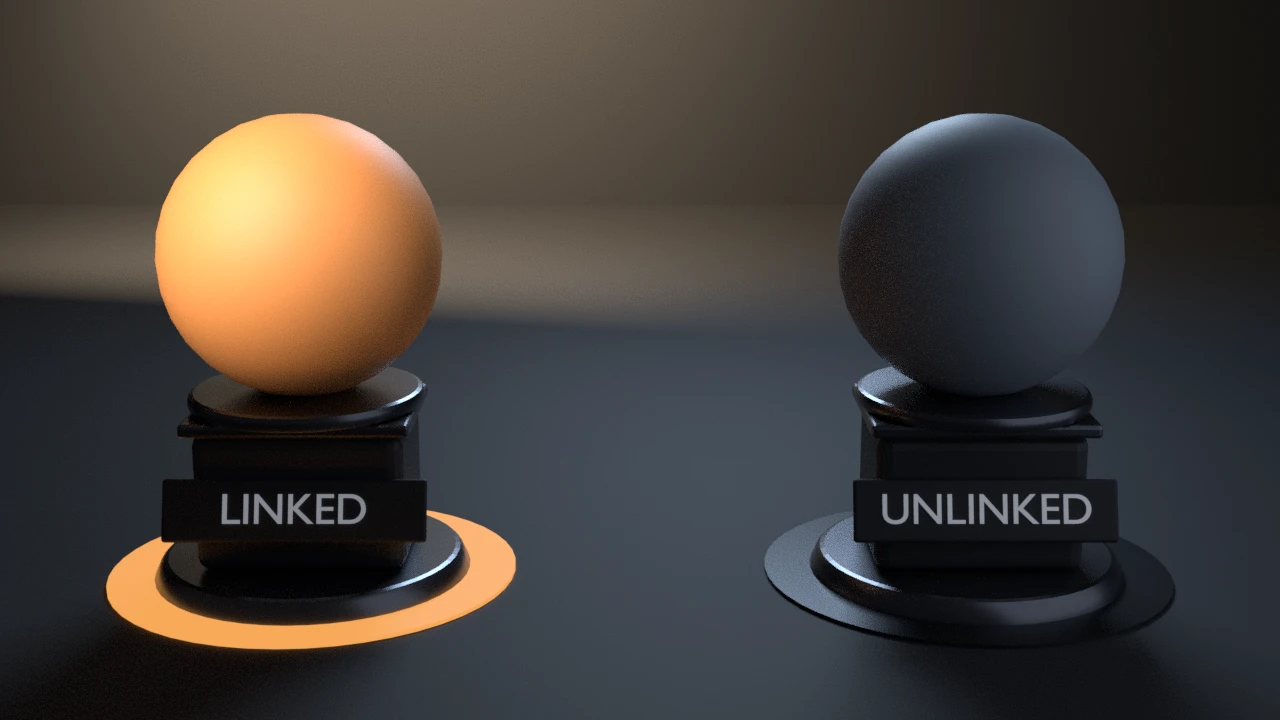
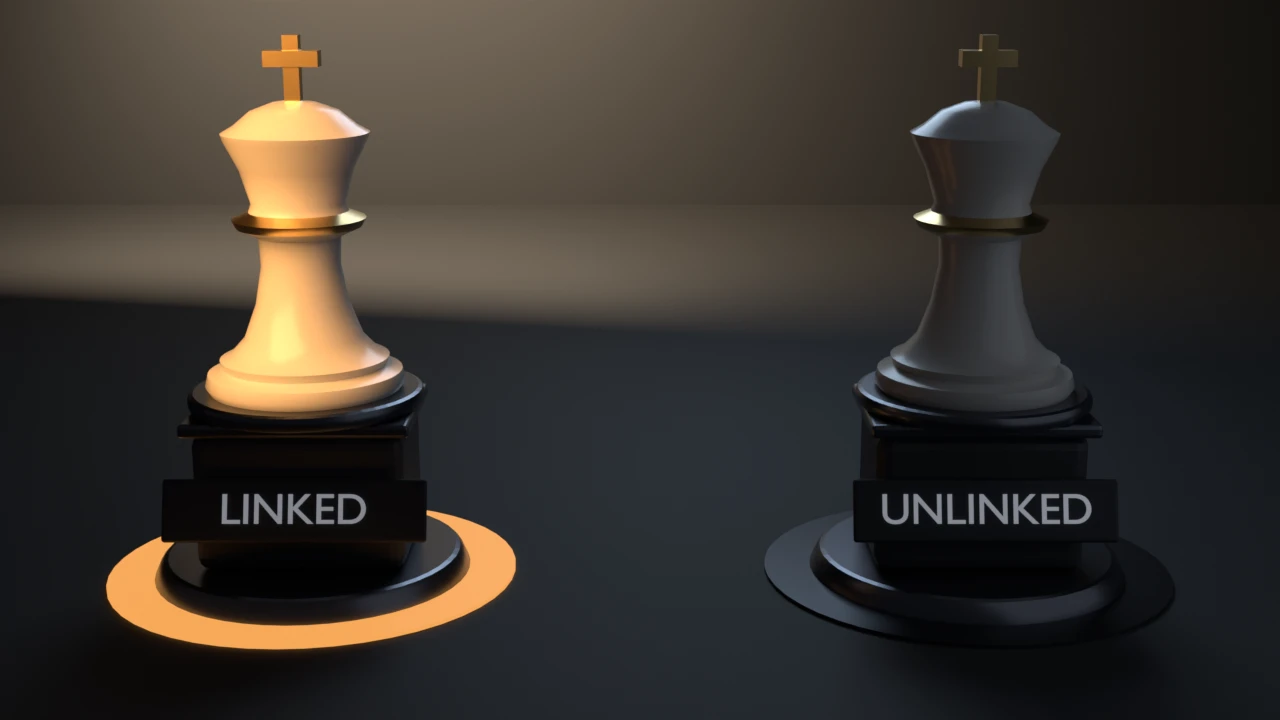
fix(examples): redesign light-link-studio as two porcelain chess kings under one linked key
After the check passes on its matte spheres, the still hides them and
stands two identical lathed porcelain chess kings (gilt collar and cross,
one shared material) in the hero and decoy collections. The only
difference between the kings is the linked key, recoloured amber for the
still: the LINKED king glows warm, the UNLINKED king stays cool grey. The
shared fill and rim are pulled down for the still only, since glossy
porcelain picks up far more of them than the matte check spheres. The
still now renders denoised (64 samples) and runs the gallery_framing gate
(exit 10), which it previously skipped. Check logic is unchanged.

Evidence (live runs, local):
- E:/Blender-Developer-Tools/.scratch/blender-5.2.1-windows-x64/blender.exe
  (Blender 5.2.1 LTS): check exit 0, linked hero=0.862 decoy=0.232
  ratio=3.7x; unlinked rise=238%, hero_drift=0.1%. --output exit 0.
  --skip-link exits 5 ("receiver_collection assignment did not read back").
- E:/Blender-Developer-Tools/.scratch/blender-4.5.11-windows-x64/blender.exe
  (Blender 4.5.11 LTS): check and --output exit 0, same numbers, framing_ok.
- Framing: fill x=0.756 y=0.822; margins l=0.122 r=0.122 b=0.128 t=0.050.
- Contact sheet: candidate luma 0.208 / stage 0.163 / warmth +0.275 /
  sat 0.242, against armature-bend 0.243/0.192/-0.144/0.237,
  damped-track-aim 0.237/0.218/+0.105/0.178, bmesh-gear 0.237/0.252/+0.092/0.153.

diff --git a/examples/light-link-studio/light_link_studio.py b/examples/light-link-studio/light_link_studio.py
@@ -33,6 +33,11 @@ CI smoke check. Pass --output to also render a still:
 import bpy, bmesh, sys, os, math, argparse, tempfile, shutil
 from mathutils import Matrix
 
+# Shared Layer 1 framing measurement (render path only) — see
+# gallery_framing.py for the __file__-relative import shim this relies on.
+sys.path.insert(0, os.path.join(os.path.dirname(os.path.abspath(__file__)), os.pardir))
+import gallery_framing  # noqa: E402
+
 HERO_RGB = (0.85, 0.30, 0.08)     # hazard orange
 DECOY_RGB = (0.30, 0.34, 0.40)    # cold steel
 KEY_ENERGY = 560.0
@@ -375,7 +380,85 @@ def placard(sc, text, x, plate_m, stand_m, text_m):
     sc.collection.objects.link(ob)
 
 
-def render_still(sc, path):
+# Render-only chess king, lathed from an (r, z) profile standing on z=0.
+# Faces between KING_BAND z-limits take the gilt material (index 1).
+KING_PROFILE = [
+    (0.0, 0.0), (0.34, 0.0), (0.355, 0.025), (0.345, 0.065), (0.29, 0.085),
+    (0.30, 0.115), (0.26, 0.135), (0.21, 0.19), (0.165, 0.31), (0.14, 0.45),
+    (0.145, 0.55), (0.22, 0.585), (0.235, 0.615), (0.175, 0.64),
+    (0.165, 0.67), (0.20, 0.79), (0.25, 0.89), (0.258, 0.915), (0.215, 0.94),
+    (0.155, 0.99), (0.075, 1.02), (0.0, 1.03),
+]
+KING_BAND = (0.57, 0.65)
+KING_SEGS = 48
+
+
+def chess_king(sc, name, x, z0, coll, body_m, gilt_m):
+    me = bpy.data.meshes.new(name)
+    bm = bmesh.new()
+    try:
+        rings = []
+        for r, z in KING_PROFILE:
+            if r == 0.0:
+                rings.append([bm.verts.new((0.0, 0.0, z))])
+            else:
+                rings.append([bm.verts.new((r * math.cos(2 * math.pi * s / KING_SEGS),
+                                            r * math.sin(2 * math.pi * s / KING_SEGS), z))
+                              for s in range(KING_SEGS)])
+        for a, b in zip(rings, rings[1:]):
+            zmid = 0.5 * (a[0].co.z + b[0].co.z)
+            idx = 1 if KING_BAND[0] <= zmid <= KING_BAND[1] else 0
+            for s in range(KING_SEGS):
+                t = (s + 1) % KING_SEGS
+                if len(a) == 1:
+                    f = bm.faces.new((a[0], b[t], b[s]))
+                elif len(b) == 1:
+                    f = bm.faces.new((a[s], a[t], b[0]))
+                else:
+                    f = bm.faces.new((a[s], a[t], b[t], b[s]))
+                f.smooth = True
+                f.material_index = idx
+        # gilt cross finial: an upright and a crossbar
+        for dims, cz in (((0.055, 0.055, 0.24), 1.13), ((0.19, 0.075, 0.055), 1.17)):
+            res = bmesh.ops.create_cube(bm, size=1.0)
+            for v in res["verts"]:
+                v.co = (v.co.x * dims[0], v.co.y * dims[1], v.co.z * dims[2] + cz)
+            for f in {f for v in res["verts"] for f in v.link_faces}:
+                f.material_index = 1
+        bmesh.ops.recalc_face_normals(bm, faces=bm.faces)
+        bm.to_mesh(me)
+    finally:
+        bm.free()
+    me.set_sharp_from_angle(angle=math.radians(45.0))
+    me.materials.append(body_m)
+    me.materials.append(gilt_m)
+    ob = bpy.data.objects.new(name, me)
+    ob.location = (x, 0.0, z0)
+    coll.objects.link(ob)
+    return ob
+
+
+def render_still(sc, path, key, hero, decoy):
+    """The gallery still stages the contract on designed subjects: the checked
+    spheres are hidden and two identical porcelain chess kings stand in their
+    collections. The kings share one material, so the only difference between
+    them is the linked key — recoloured amber for the still (the check ran
+    first, on the untouched scene)."""
+    porcelain = _principled("Porcelain", (0.66, 0.64, 0.60), 0.22)
+    gilt = _principled("Gilt", (0.78, 0.56, 0.24), 0.28, metallic=1.0)
+    kings = []
+    for src in (hero, decoy):
+        src.hide_render = True
+        coll = src.users_collection[0]
+        kings.append(chess_king(sc, "King" + src.name, src.location.x, 0.70,
+                                coll, porcelain, gilt))
+    key.data.color = (1.0, 0.48, 0.16)
+    key.data.energy = KEY_ENERGY * 1.2
+    # the unlinked king must sit near the fill floor as the check measured it
+    # on the matte decoy sphere; porcelain reflects far more of the shared
+    # fill and rim, so both are pulled down for the still only
+    sc.objects["Fill"].data.energy = FILL_ENERGY * 0.45
+    sc.objects["Rim"].data.energy = 70.0
     plate_m = _principled("PlateBlack", (0.03, 0.032, 0.038), 0.6)
     stand_m = _principled("StandMetal", (0.16, 0.17, 0.20), 0.3, metallic=0.9)
     # faint self-glow: the UNLINKED placard must read even in the decoy's dark
@@ -386,16 +469,26 @@ def render_still(sc, path):
     # the gallery still is the linked state, on Cycles for the same
     # deterministic sampling as the check
     sc.render.engine = 'CYCLES'
-    sc.cycles.samples = 48
-    sc.cycles.use_denoising = False
+    sc.cycles.samples = 64
+    sc.cycles.use_denoising = True
     sc.render.resolution_x = 1280
     sc.render.resolution_y = 720
     sc.render.resolution_percentage = 100
     sc.render.image_settings.file_format = 'PNG'
     sc.render.filepath = path
     sc.view_settings.view_transform = 'Standard'
+    bpy.context.view_layer.update()
+    # Layer 1 framing gate before the beauty render (exit 10 on violation)
+    stage = [o for o in sc.objects if o.name.startswith(("Floor", "Wall", "Inlay"))]
+    placards = [o for o in sc.objects if o.name.startswith(("Plate", "PlacardText"))]
+    peds = [o for o in sc.objects if o.name.startswith("Ped")]
+    fcode = gallery_framing.check_framing(sc, sc.camera, hero=kings + peds,
+                                          elements=kings + peds + placards,
+                                          stage=stage)
+    if fcode:
+        return fcode
     bpy.ops.render.render(write_still=True)
-    return os.path.exists(path) and os.path.getsize(path) > 0
+    return 0 if os.path.exists(path) and os.path.getsize(path) > 0 else 9
 
 
 def main():
@@ -415,9 +508,11 @@ def main():
         return code
 
     if args.output:
-        if not render_still(sc, os.path.abspath(args.output)):
-            print("ERROR: render produced no file", file=sys.stderr)
-            return 9
+        rcode = render_still(sc, os.path.abspath(args.output), key, hero, decoy)
+        if rcode:
+            if rcode == 9:
+                print("ERROR: render produced no file", file=sys.stderr)
+            return rcode
         print(f"rendered still {args.output}")
 
     print("light-link-studio OK")

diff --git a/examples/light-link-studio/README.md b/examples/light-link-studio/README.md
@@ -41,11 +41,16 @@ below 50%), and a non-surgical restriction (exit 8, hero drift above 5%).
 Blender 4.5 LTS and 5.1 (3.7x vs 3.6x linked; rise 238% vs 233% — inside the
 rise noise described above).
 
-The render is the contract at a glance: the spheres staged as studio
-specimens on matching turned-metal pedestals — the blazing orange hero over
-its LINKED placard with the warm floor inlay marking the linked light's
-footprint, the cold steel decoy over UNLINKED with its inlay dark, a warm
-pool raking the wall behind them — one key, one hero.
+The render is the contract at a glance, on designed subjects: after the
+check passes on the spheres, the still hides them and stands two
+**identical** lathed porcelain chess kings (gilt collar and cross, one
+shared material) in the hero and decoy collections. The only difference
+between the kings is the linked key, recoloured amber for the still: the
+LINKED king glows warm over its placard and the warm floor inlay, the
+UNLINKED king stays cool grey. The shared fill and rim are pulled down for
+the still only, because glossy porcelain picks up far more of them than the
+matte check spheres do. The still's render path gates framing through
+`examples/gallery_framing.py` (exit 10) before writing.
 
 ## Run
 
@@ -77,6 +82,7 @@ against it.
 | 7 | Decoy rise below gate when unlinked |
 | 8 | Hero drifted across the unlink |
 | 9 | `--output` produced no file |
+| 10 | Framing gate violation on the `--output` path (`gallery_framing`) |
 
 The `blender-smoke` workflow runs the check on Blender 5.2 LTS and 4.5 LTS
 (5.1 on the weekly cron, the `needs-5.1` PR label, or manual dispatch).

diff --git a/README.md b/README.md
@@ -507,7 +507,7 @@ consumed-input compositing contract, and a save/reload round-trip.
 </tr>
 <tr>
 <td width="46%" valign="middle">
-<a href="examples/light-link-studio/"><img src="examples/light-link-studio/preview.webp" alt="Light link studio: a blazing orange hero sphere and a dim steel decoy staged as specimens on turned-metal pedestals, LINKED and UNLINKED placards on each plinth, a warm floor inlay glowing under the hero only, a warm light pool raking the wall behind - one key light restricted to the hero collection" /></a>
+<a href="examples/light-link-studio/"><img src="examples/light-link-studio/preview.webp" alt="Light link studio: two identical porcelain chess kings on dark plinths, the LINKED king glowing under an amber key with a warm floor inlay beneath it, the UNLINKED king cool grey beside it - one key light restricted to the hero collection" /></a>
 </td>
 <td valign="middle">
 
